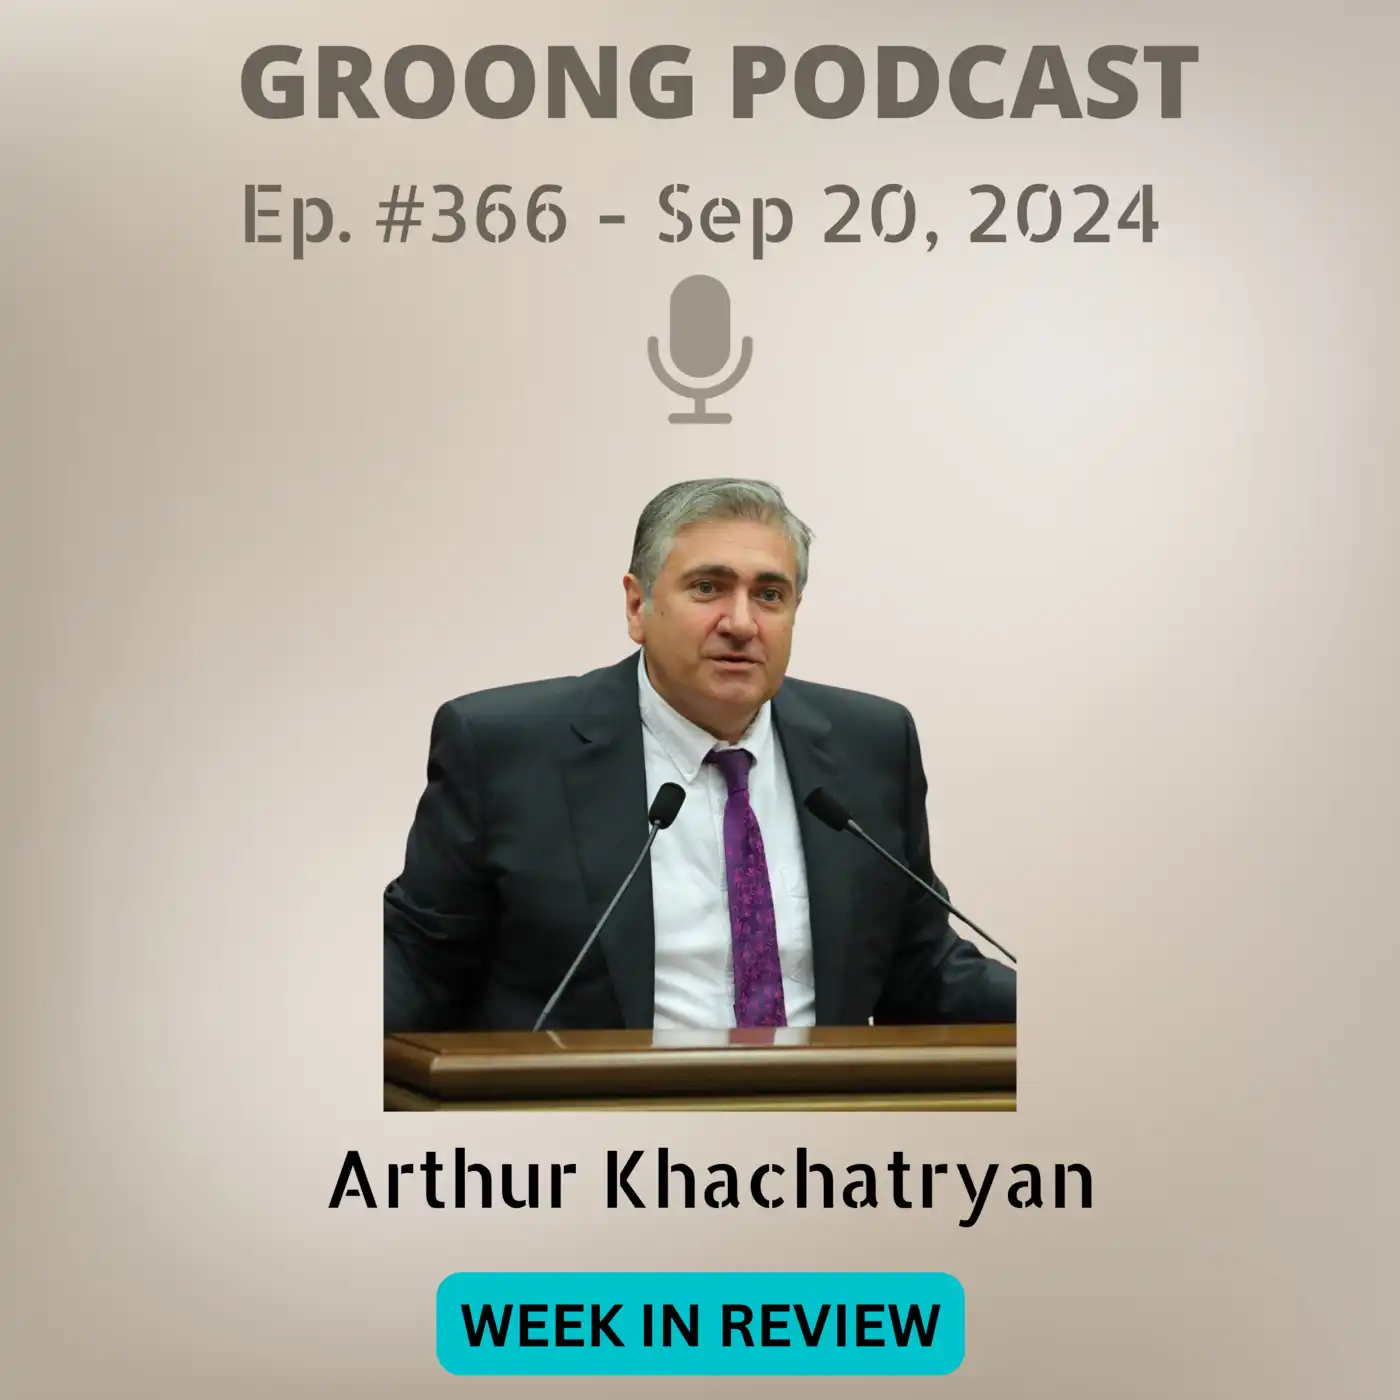
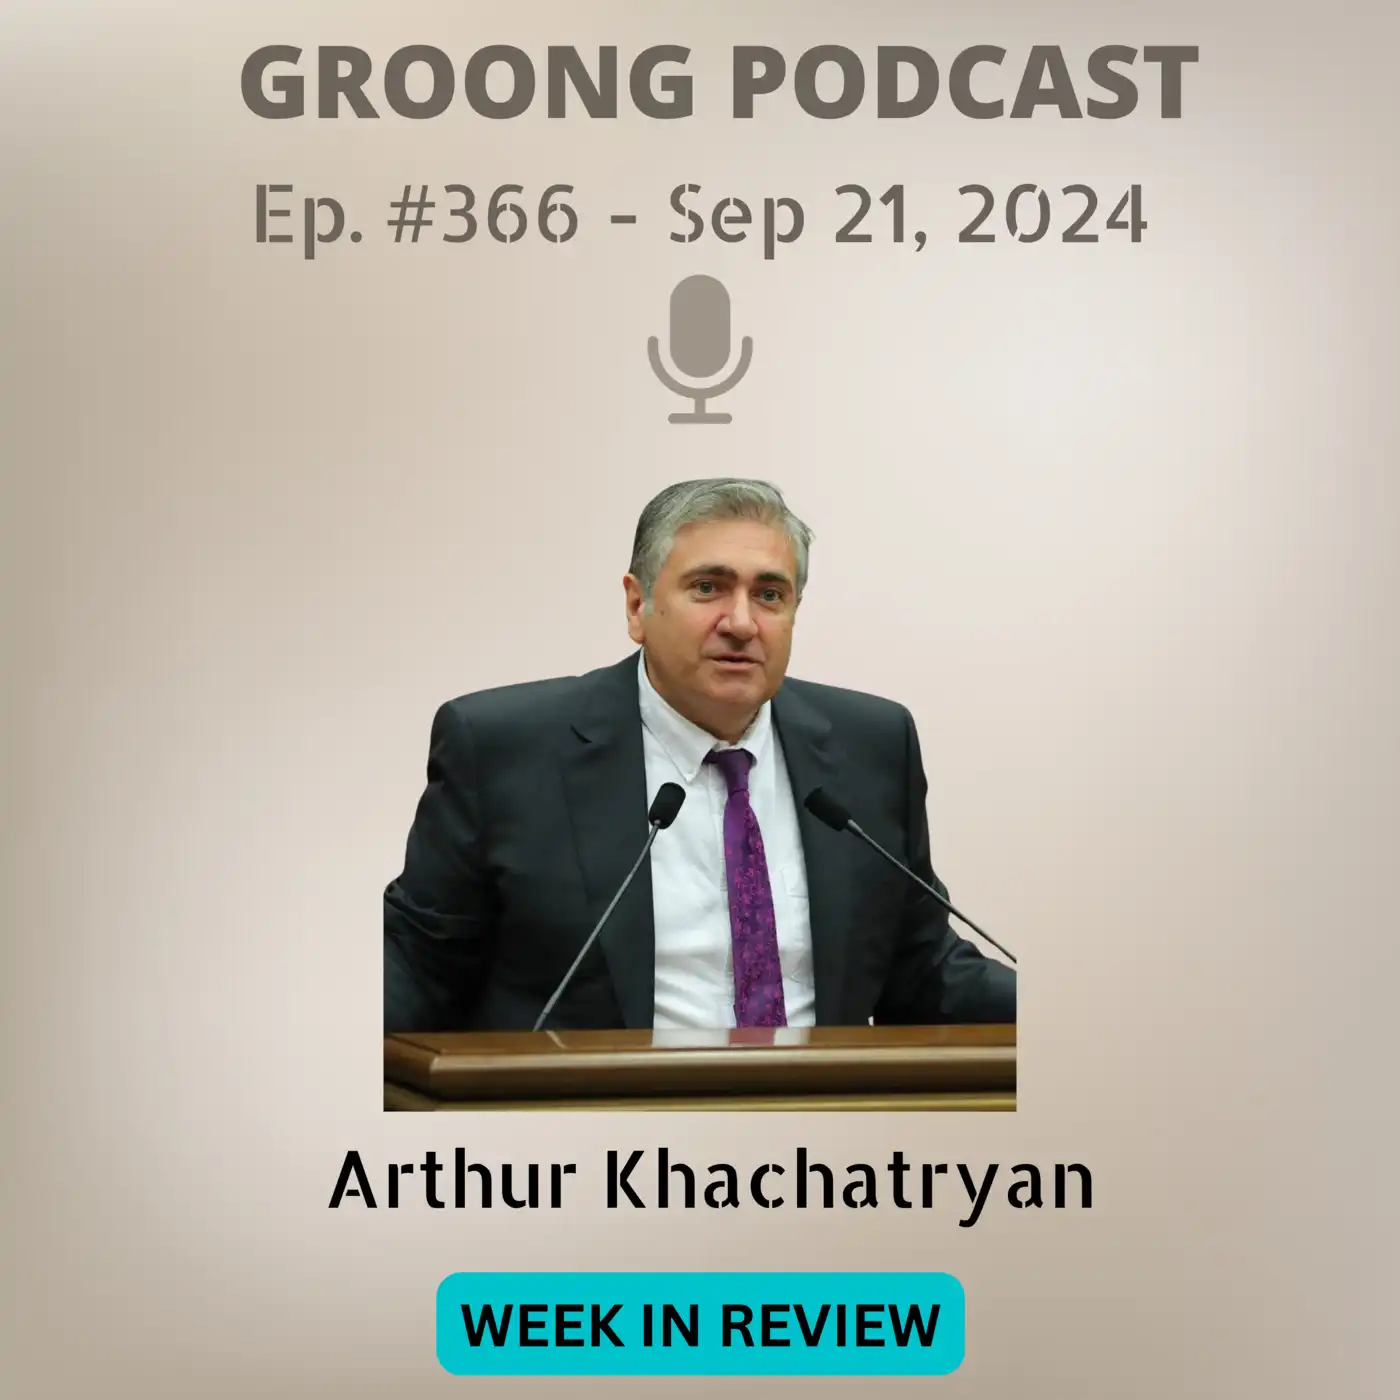
Pre-live ep 366

Changed region(s): [[0.1536, 0.1229, 0.8293, 0.1843]]

diff --git a/content/episode/366-arthur-khachatryan-politics-and-economy-inarmenia-fall-2024.md b/content/episode/366-arthur-khachatryan-politics-and-economy-inarmenia-fall-2024.md
@@ -1,9 +1,9 @@
 +++
-Date = 2024-09-20T00:00:00+04:00
+Date = 2024-09-21T00:00:00+04:00
 upcoming = true
 
-title = "Arthur Khachatryan - Politics and Economy in Armenia, Fall 2024 | Ep 366 - Sep 20, 2024"
-subtitle = "Conversations on Groong - 09/20/2024"
+title = "Arthur Khachatryan - Politics and Economy in Armenia, Fall 2024 | Ep 366 - Sep 21, 2024"
+subtitle = "Conversations on Groong - 09/21/2024"
 author = "Armenian News Network - Groong"
 
 podcast_file = ""
@@ -45,6 +45,98 @@ Episode 366 | Recorded: September 18, 2024
 """
 
 +++
+
+# Politics and Economy in Armenia, Fall 2024
+
+## Armenian Government’s Track Record
+
+Let's start by taking a broad look at Pashinyan and the Civil Contract's time in power. 
+* The loss in the 44-day war;
+* an economy that seems to be growing but is mostly due to re-exports;
+*  how they've handled traditional alliances, their views on the church and education;
+* the strained relationship between Armenia and the Diaspora;
+* and of course the so-called “peace negotiations” with Azerbaijan.
+
+There seem to be a lot of unanswered questions.
+
+**Questions:**
+* How does the ARF view this government’s record in negotiations with Azerbaijan? 
+    * Where there is a constant lack of transparency and dishonesty with the people of Armenia, and a lack of any red lines when it comes to national security and territorial integrity.
+* How will the opposition turn the table on the government’s failure to perform?
+    * What recommendations do you have to improve these areas over what this government is doing?
+
+
+## Armenian Economy
+
+Despite the government’s reported growth of 10.4% and a rate of inflation of 2.8% in the first half of 2024, most people say that they’re not feeling this “good economy” in their lives or in their pockets.
+
+**Questions**:
+* What do you attribute the disconnect between the reported good economy and the common citizen’s experience?
+* The economy is showing signs of cooling down. Even the minister of finance predicted that for the full year 2024 the government expects a 6% growth. Why is the economy slowing down?
+* The refinance rate is at 7.5%, while the Dram has appreciated significantly during 2024. How is this affecting individuals, businesses, as well as the real estate market?
+* Much has been said about the government’s numbers being based on an artificially inflated GDP figure, due to the inclusion of the “re-export” aspect of the economy. Does the government plan to recognize this issue?
+    * Note: affects GDP-to-debt ratio, revenues, taxation, spending, risk assessment (of the economy), ratings, etc…
+* Overall remittances into Armenia have decreased by 48%. What do you attribute this to?
+    * Notes: MIR payment system blockage; Russia making migrant workers process tougher.
+* How is the labor market in Armenia? Are there shortages in some industries?
+* Why has the IT industry slowed down 13% in 2024?
+    * Should the IT sector be subsidized anyway?
+
+The government has come under[ criticism](https://168.am/2024/08/26/2089404.html) for poor planning of its capital and operational expenditures and also revenues. There are large discrepancies, and the finance minister has tried to[ explain](https://armenpress.am/en/article/1198344) them away.
+
+**Questions:**
+* What’s the reason why the government is not hitting its marks in projected revenues and expenditures?
+* The minister pointed to a “reserve fund”, which this year contained 55 billion Drams. Is this a government emergency fund, what do they use it for?
+
+
+## Armenia’s Pivot To the West
+
+In an environment where the people of the country are not feeling the “economic growth” that the government claims and the prosperity that goes with that, the US in response to Pashinyan’s pivot to the west is telling the people of Armenia “let them eat democracy”. Well, literally the former US ambassador to the OSCE, Dan Baer said that “[Armenians must be prepared to endure some cold winters](https://x.com/JAMnewsCaucasus/status/1834625406630347032).”
+
+**Questions:**
+* How is Armenia’s pivot to the West going?
+
+
+### “More” USAID for Armenia
+
+When Georgia made its pivot to the west in the 2000s, the US, EU and their partners made heavy investments to boost Georgia. The [investments](https://www.macrotrends.net/global-metrics/countries/GEO/georgia/foreign-direct-investment#:~:text=Georgia%20foreign%20direct%20investment%20for,a%2059.81%25%20decline%20from%202019.) to Georgia could be counted in the billions of US dollars. Yet, despite the Pashinyan regime’s audacious moves to alienate Russia, something that the west has lauded, the actual monetary support seems to be just pocket change.
+
+A week ago USAID announced a [doubling of aid to Armenia](https://oc-media.org/usaid-doubles-aid-package-to-armenia-to-250-million/) with another $130 million allocation. The objectives are: improving governance, civil participation in democracy, and improving the sustainable management of natural resources. It also includes support for ‘increasing the competitiveness of certain sectors to reduce reliance on Russia.
+
+**Questions:**
+* Between the politics and the economics of this US Aid, will it make a difference in the lives of the common people?
+* Where does it end up going?
+* Are these amounts, $130M, $250M, appropriate amounts to effect the desired shifts in Armenia?
+
+
+### Peace Process & Corridors
+
+Armenia’s so-called “Pivot to the West” is also a major factor in negotiations with Azerbaijan & Turkey. So far, Armenia has replaced Russian border guards that were helping Armenia guard its borders with Azerbaijan post-2020 with EU observers armed with binoculars. Armenia is relying less and less on Russian military technology. 
+
+Even point 9 of the November 10 statement which clearly states that Russian border guards shall “control” the transportation link between Azerbaijan and Nakhijevan that is supposed to go through Armenia is being interpreted differently it seems. Pashinyan is actively talking about the use of private companies to provide security on these transport links and is publicly saying that despite what is written in the Nov 10 statement, who says that Russians have to be physically on the ground in order to “control” communication.
+
+Pashinyan supporters say that Russia betrayed Armenia and therefore all these moves are justified. Two “intellectual” Armenian backers of Pashinyan (Anna Ohanian and Nerses Kopalyan) recently     
+
+**Questions**:
+* What would you say to these arguments? Is there a rational mechanism for Armenia to completely shun Russia, while staying afloat?
+* Are Armenia’s much announced military procurements from France and India sufficient to replace Armenia’s reliance on Russian-produced arms?
+* If Armenia’s relations with Russia further sour, what could happen to Armenia’s energy security, including supply of gas from Russia or even nuclear fuel? Could Dan Baer’s prophecy happen sooner than we think?
+
+
+## Elections in Georgia
+
+On October 26 Georgia will hold parliamentary elections. The ruling party Georgian Dream’s efforts to rid the country’s domestic politics from foreign influence over the past year have led to an acute crisis between Georgia and the EU. The West is [painting](https://www.rferl.org/a/salome-zurabishvili-parliamentary-election-october/33094630.html) these elections as a pivot to the west or to the east.
+
+**Question**:
+* What’s at stake in Georgia and maybe more to the point for us, what’s at stake for Armenia, in these 2024 Georgian parliamentary elections?
+
+In the past week some momentous statements have been made in the Georgian political scene. The Georgian Dream [leadership](https://civil.ge/archives/624405) has been floating the [idea of apologizing](https://euronewsgeorgia.com/2024/09/17/urtiertpatiebisa-da-sherigebis-temaze-bidzina-ivanishvilis-ganckhadebas-premier-ministri-gamoekhmaura/) to the people of Abkhazia and South Ossetia. They put the blame on Mikheil Saakashvili’s government in 2008. Of course Saakashvili’s UNM party is also the main opposition party in the upcoming elections.
+
+Russia has apparently [suspended](https://agenda.ge/en/news/2024/40419#gsc.tab=0) social aid to Abkhazia, this is also interesting.
+
+**Questions**:
+* Is it possible that Georgia and Russia may reconcile their differences around Abkhazia and S. Ossetia?
+* Given that the railway through Abkhazia has been blocked for decades, does this reconciliation provide Armenia with opportunities? Risks?
 
 
 # Wrap-up
